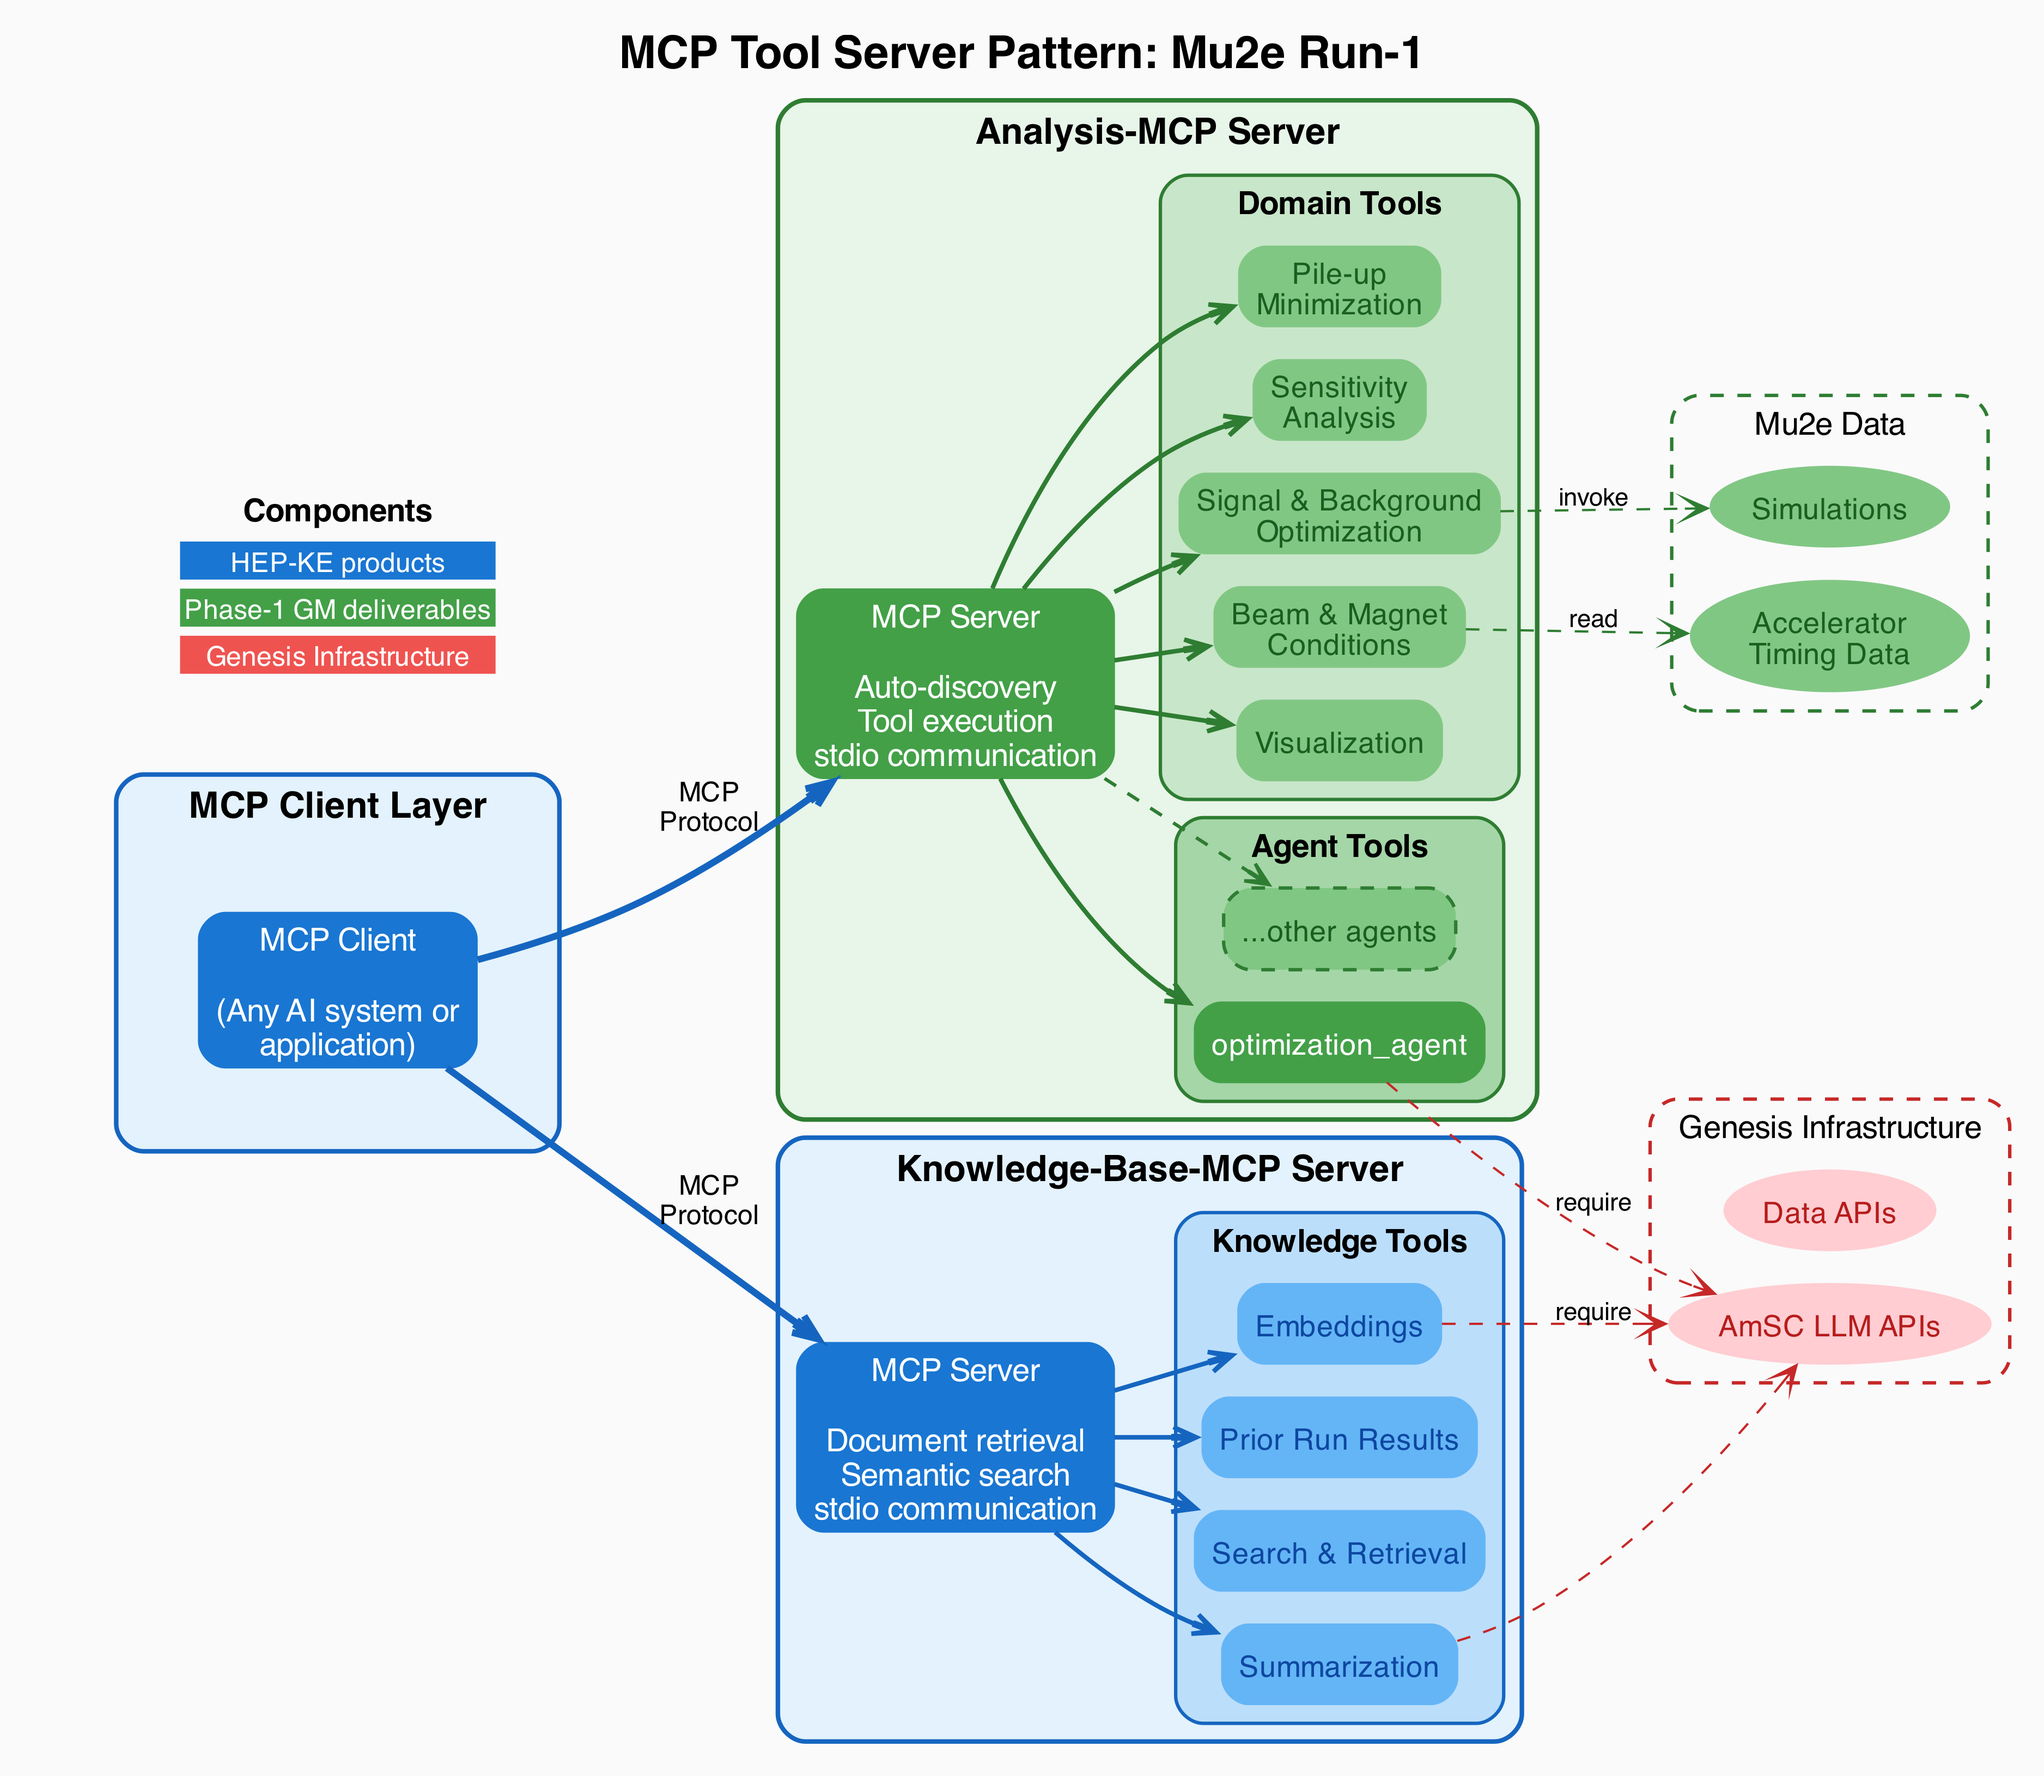
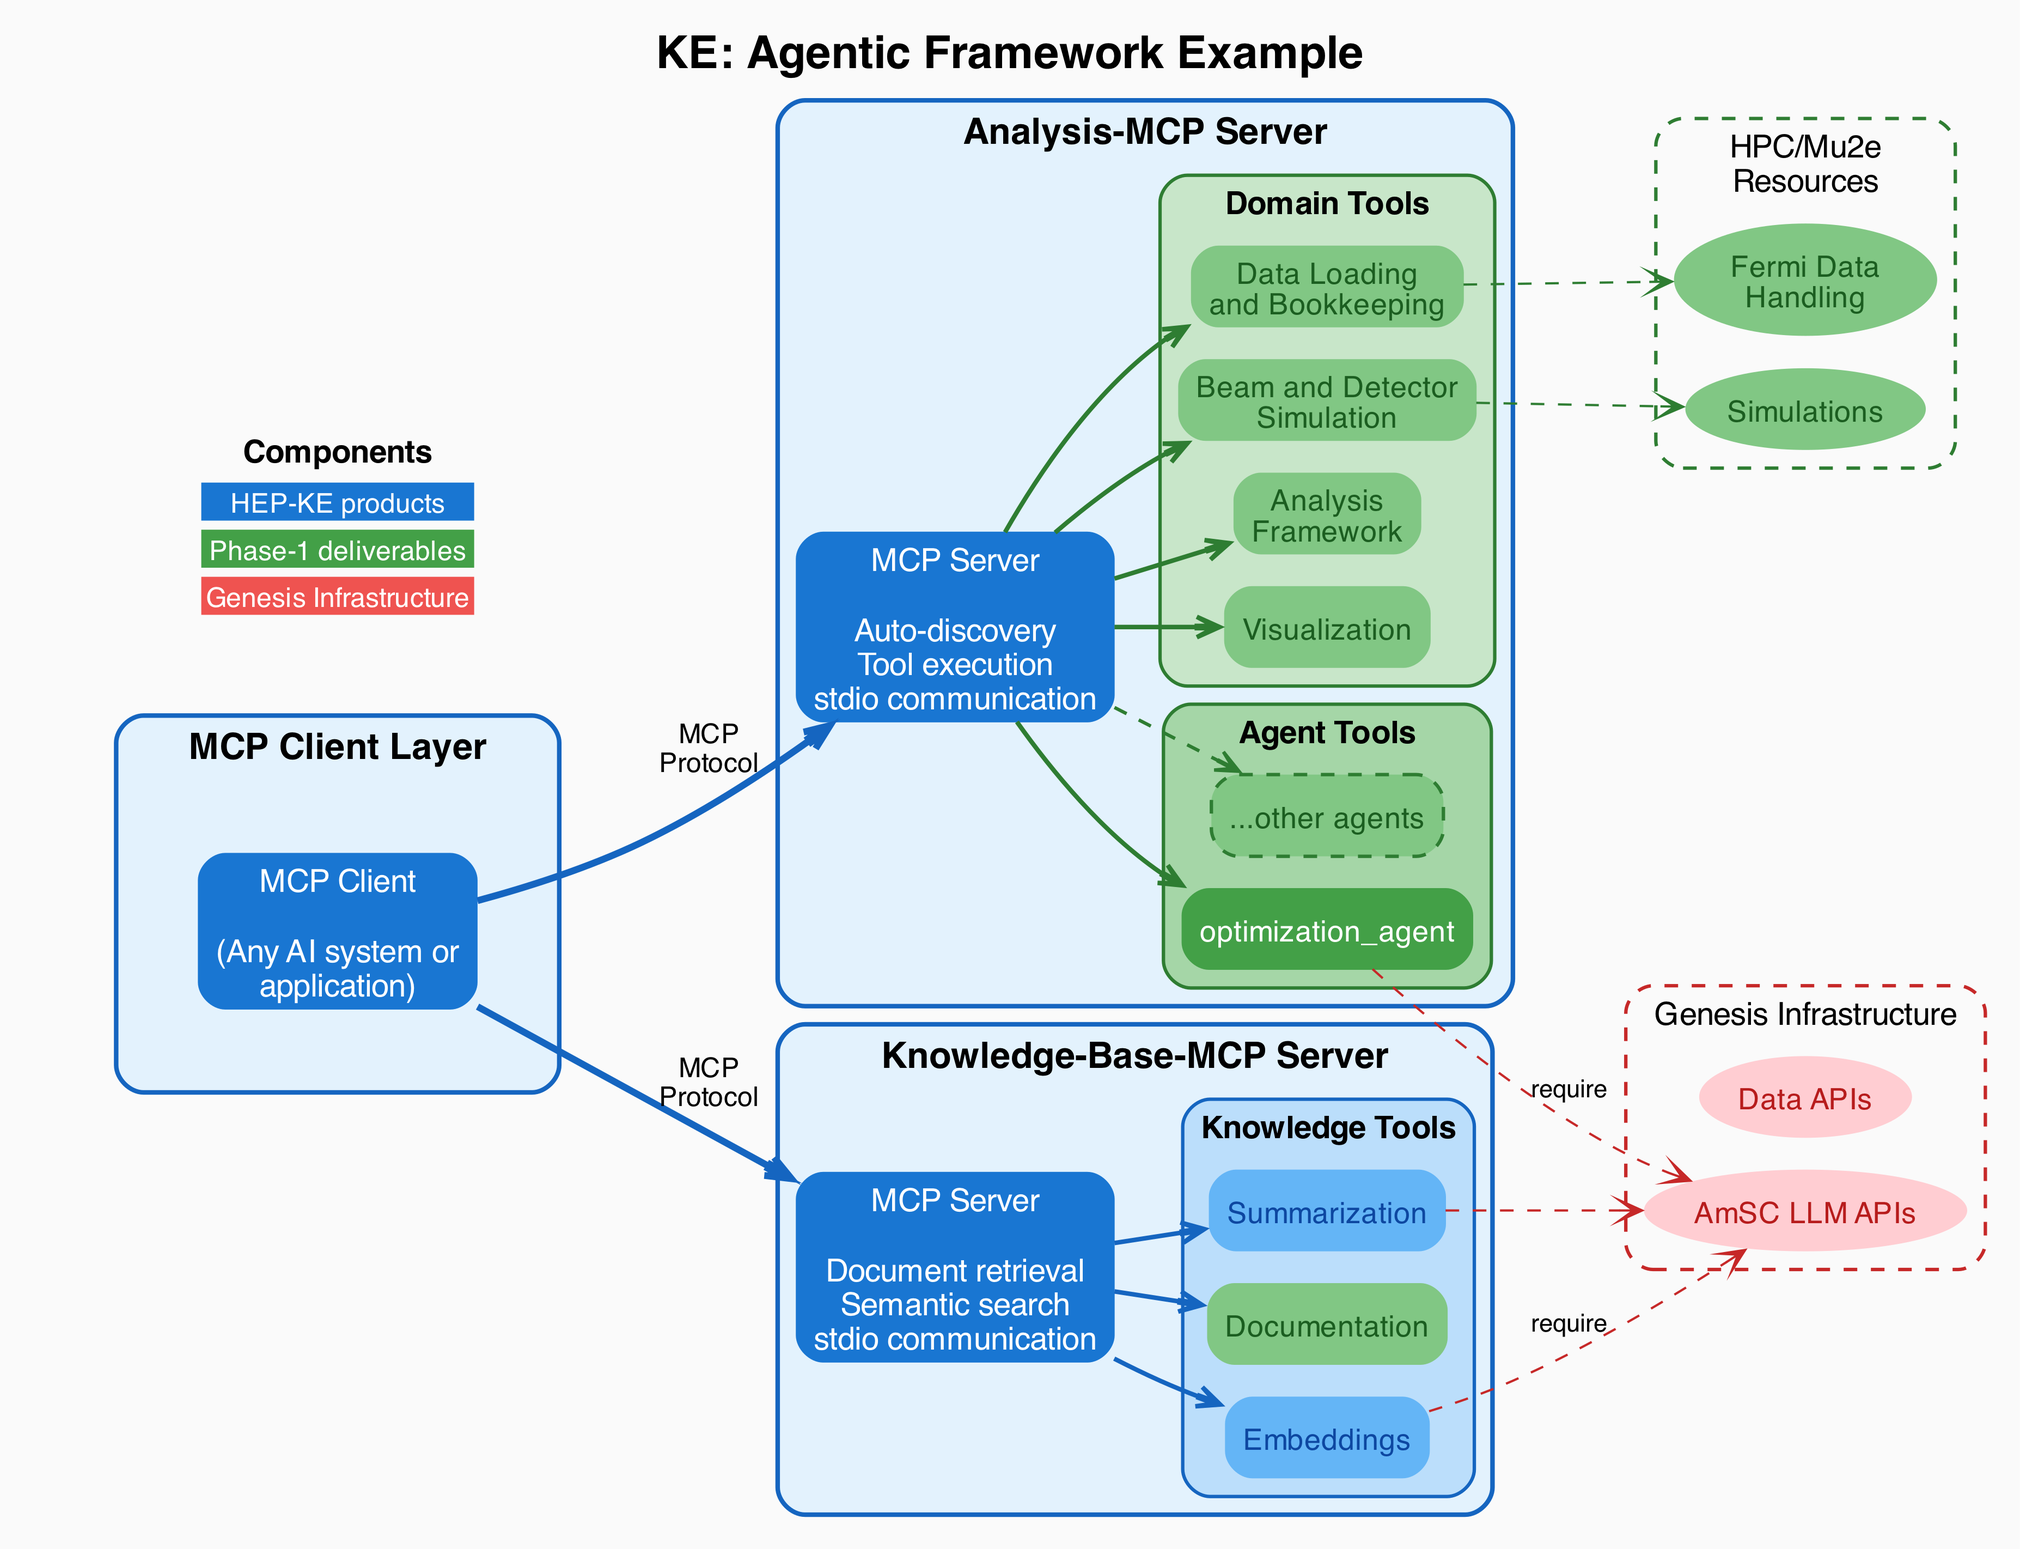
mu2e doc

Changed region(s): [[0.062, 0.0, 0.9922, 0.9905], [0.062, 0.2786, 0.248, 0.4024]]

diff --git a/documentation/flowchart_mu2e.py b/documentation/flowchart_mu2e.py
@@ -255,8 +255,8 @@ def generic_architecture():
 def mu2e_architecture():
     """
     Mu2e Run-1 architecture with simplified 3-color scheme:
-    - Blue: KE (MCP Client, Knowledge-Base-MCP)
-    - Green: Phase-1 Deliverables (Analysis-MCP, Mu2e Data)
+    - Blue: HEP-KE products (MCP Client, Analysis-MCP Server, Knowledge-Base-MCP Server)
+    - Green: Phase-1 Deliverables (Domain Tools, Agent Tools, Documentation, HPC/Mu2e Resources)
     - Red: Genesis Infrastructure
     """
     dot = Digraph('Mu2e_Architecture')
@@ -264,7 +264,7 @@ def mu2e_architecture():
              fontsize='20',
              fontname='Helvetica-Bold',
              labelloc='t',
-             label='MCP Tool Server Pattern: Mu2e Run-1',
+             label='KE: Agentic Framework Example',
              bgcolor='#FAFAFA',
              pad='0.1',
              nodesep='0.2',
@@ -308,7 +308,7 @@ def mu2e_architecture():
     legend_label = '''<<TABLE BORDER="0" CELLBORDER="0" CELLSPACING="4">
         <TR><TD COLSPAN="1"><B>Components</B></TD></TR>
         <TR><TD BGCOLOR="#1976D2"><FONT COLOR="white" POINT-SIZE="12">HEP-KE products</FONT></TD></TR>
-        <TR><TD BGCOLOR="#43A047"><FONT COLOR="white" POINT-SIZE="12">Phase-1 GM deliverables</FONT></TD></TR>
+        <TR><TD BGCOLOR="#43A047"><FONT COLOR="white" POINT-SIZE="12">Phase-1 deliverables</FONT></TD></TR>
         <TR><TD BGCOLOR="#EF5350"><FONT COLOR="white" POINT-SIZE="12">Genesis Infrastructure</FONT></TD></TR>
     </TABLE>>'''
 
@@ -344,25 +344,25 @@ def mu2e_architecture():
                    penwidth='0')
 
     # ===========================================
-    # PHASE-1: Analysis-MCP Server (Green)
+    # HEP-KE: Analysis-MCP Server (Blue cluster with green tools inside)
     # ===========================================
     with dot.subgraph(name='cluster_analysis') as s:
         s.attr(label='Analysis-MCP Server',
                style='rounded,filled',
-               fillcolor=P1_CLUSTER_BG,
-               color=P1_CLUSTER_BORDER,
+               fillcolor=KE_CLUSTER_BG,
+               color=KE_CLUSTER_BORDER,
                penwidth='2',
                fontsize='16',
                fontname='Helvetica-Bold')
         s.node('analysis_server', 'MCP Server\n\nAuto-discovery\nTool execution\nstdio communication',
                shape='box',
                style='rounded,filled',
-               fillcolor=P1_NODE_BG,
-               fontcolor=P1_TEXT,
+               fillcolor=KE_NODE_BG,
+               fontcolor=KE_TEXT,
                fontsize='14',
                penwidth='0')
 
-        # Domain Tools
+        # Domain Tools (Green - Phase-1)
         with s.subgraph(name='cluster_domain') as d:
             d.attr(label='Domain Tools',
                    style='rounded,filled',
@@ -371,28 +371,21 @@ def mu2e_architecture():
                    penwidth='1.5',
                    fontsize='14',
                    fontname='Helvetica-Bold')
-            d.node('conditions', 'Beam & Magnet\nConditions',
+            d.node('analysis_fw', 'Analysis\nFramework',
                    shape='box',
                    style='rounded,filled',
                    fillcolor=P1_NODE_BG_LIGHT,
                    fontcolor=P1_TEXT_DARK,
                    fontsize='13',
                    penwidth='0')
-            d.node('signal_bg', 'Signal & Background\nOptimization',
+            d.node('beam_sim', 'Beam and Detector\nSimulation',
                    shape='box',
                    style='rounded,filled',
                    fillcolor=P1_NODE_BG_LIGHT,
                    fontcolor=P1_TEXT_DARK,
                    fontsize='13',
                    penwidth='0')
-            d.node('sensitivity', 'Sensitivity\nAnalysis',
-                   shape='box',
-                   style='rounded,filled',
-                   fillcolor=P1_NODE_BG_LIGHT,
-                   fontcolor=P1_TEXT_DARK,
-                   fontsize='13',
-                   penwidth='0')
-            d.node('pileup', 'Pile-up\nMinimization',
+            d.node('data_loading', 'Data Loading\nand Bookkeeping',
                    shape='box',
                    style='rounded,filled',
                    fillcolor=P1_NODE_BG_LIGHT,
@@ -460,25 +453,18 @@ def mu2e_architecture():
                      penwidth='1.5',
                      fontsize='14',
                      fontname='Helvetica-Bold')
-            kbt.node('kb_search', 'Search & Retrieval',
-                     shape='box',
-                     style='rounded,filled',
-                     fillcolor=KE_NODE_BG_LIGHT,
-                     fontcolor=KE_TEXT_DARK,
-                     fontsize='13',
-                     penwidth='0')
-            kbt.node('kb_docs', 'Prior Run Results',
-                     shape='box',
-                     style='rounded,filled',
-                     fillcolor=KE_NODE_BG_LIGHT,
-                     fontcolor=KE_TEXT_DARK,
-                     fontsize='13',
-                     penwidth='0')
             kbt.node('kb_embed', 'Embeddings',
                      shape='box',
                      style='rounded,filled',
                      fillcolor=KE_NODE_BG_LIGHT,
                      fontcolor=KE_TEXT_DARK,
+                     fontsize='13',
+                     penwidth='0')
+            kbt.node('kb_docs', 'Documentation',
+                     shape='box',
+                     style='rounded,filled',
+                     fillcolor=P1_NODE_BG_LIGHT,
+                     fontcolor=P1_TEXT_DARK,
                      fontsize='13',
                      penwidth='0')
             kbt.node('kb_summary', 'Summarization',
@@ -490,10 +476,10 @@ def mu2e_architecture():
                      penwidth='0')
 
     # ===========================================
-    # PHASE-1: Mu2e Domain Data (Green)
+    # PHASE-1: HPC/Mu2e Resources (Green)
     # ===========================================
     with dot.subgraph(name='cluster_mu2e_data') as md:
-        md.attr(label='Mu2e Data',
+        md.attr(label='HPC/Mu2e\nResources',
                 style='dashed,rounded',
                 color=P1_CLUSTER_BORDER,
                 fillcolor=P1_CLUSTER_BG,
@@ -507,7 +493,7 @@ def mu2e_architecture():
                 fontcolor=P1_TEXT_DARK,
                 fontsize='13',
                 penwidth='0')
-        md.node('accel', 'Accelerator\nTiming Data',
+        md.node('fermi_data', 'Fermi Data\nHandling',
                 shape='ellipse',
                 style='filled',
                 fillcolor=P1_NODE_BG_LIGHT,
@@ -558,24 +544,22 @@ def mu2e_architecture():
              penwidth='3',
              arrowhead='vee')
 
-    # Analysis server to tools
-    dot.edge('analysis_server', 'conditions', color=P1_CLUSTER_BORDER, penwidth='2', arrowhead='vee')
-    dot.edge('analysis_server', 'signal_bg', color=P1_CLUSTER_BORDER, penwidth='2', arrowhead='vee')
-    dot.edge('analysis_server', 'sensitivity', color=P1_CLUSTER_BORDER, penwidth='2', arrowhead='vee')
-    dot.edge('analysis_server', 'pileup', color=P1_CLUSTER_BORDER, penwidth='2', arrowhead='vee')
+    # Analysis server to tools (green edges for Phase-1 tools)
+    dot.edge('analysis_server', 'analysis_fw', color=P1_CLUSTER_BORDER, penwidth='2', arrowhead='vee')
+    dot.edge('analysis_server', 'beam_sim', color=P1_CLUSTER_BORDER, penwidth='2', arrowhead='vee')
+    dot.edge('analysis_server', 'data_loading', color=P1_CLUSTER_BORDER, penwidth='2', arrowhead='vee')
     dot.edge('analysis_server', 'viz_cat', color=P1_CLUSTER_BORDER, penwidth='2', arrowhead='vee')
     dot.edge('analysis_server', 'agent1', color=P1_CLUSTER_BORDER, penwidth='2', arrowhead='vee')
     dot.edge('analysis_server', 'agent_more', style='dashed', color=P1_CLUSTER_BORDER, penwidth='1.5', arrowhead='vee')
 
     # KB server to tools
-    dot.edge('kb_server', 'kb_search', color=KE_CLUSTER_BORDER, penwidth='2', arrowhead='vee')
-    dot.edge('kb_server', 'kb_docs', color=KE_CLUSTER_BORDER, penwidth='2', arrowhead='vee')
     dot.edge('kb_server', 'kb_embed', color=KE_CLUSTER_BORDER, penwidth='2', arrowhead='vee')
+    dot.edge('kb_server', 'kb_docs', color=KE_CLUSTER_BORDER, penwidth='2', arrowhead='vee')
     dot.edge('kb_server', 'kb_summary', color=KE_CLUSTER_BORDER, penwidth='2', arrowhead='vee')
 
     # Mu2e data dependencies (Phase-1 color)
-    dot.edge('conditions', 'accel', style='dashed', label='read', fontsize='11', color=P1_CLUSTER_BORDER, penwidth='1', arrowhead='open')
-    dot.edge('signal_bg', 'sims', style='dashed', label='invoke', fontsize='11', color=P1_CLUSTER_BORDER, penwidth='1', arrowhead='open')
+    dot.edge('beam_sim', 'sims', style='dashed', fontsize='11', color=P1_CLUSTER_BORDER, penwidth='1', arrowhead='open')
+    dot.edge('data_loading', 'fermi_data', style='dashed', fontsize='11', color=P1_CLUSTER_BORDER, penwidth='1', arrowhead='open')
 
     # Genesis infrastructure dependencies (Red color)
     dot.edge('agent1', 'llm_apis', style='dashed', label='require', fontsize='11', color=GEN_CLUSTER_BORDER, penwidth='1', arrowhead='open')
